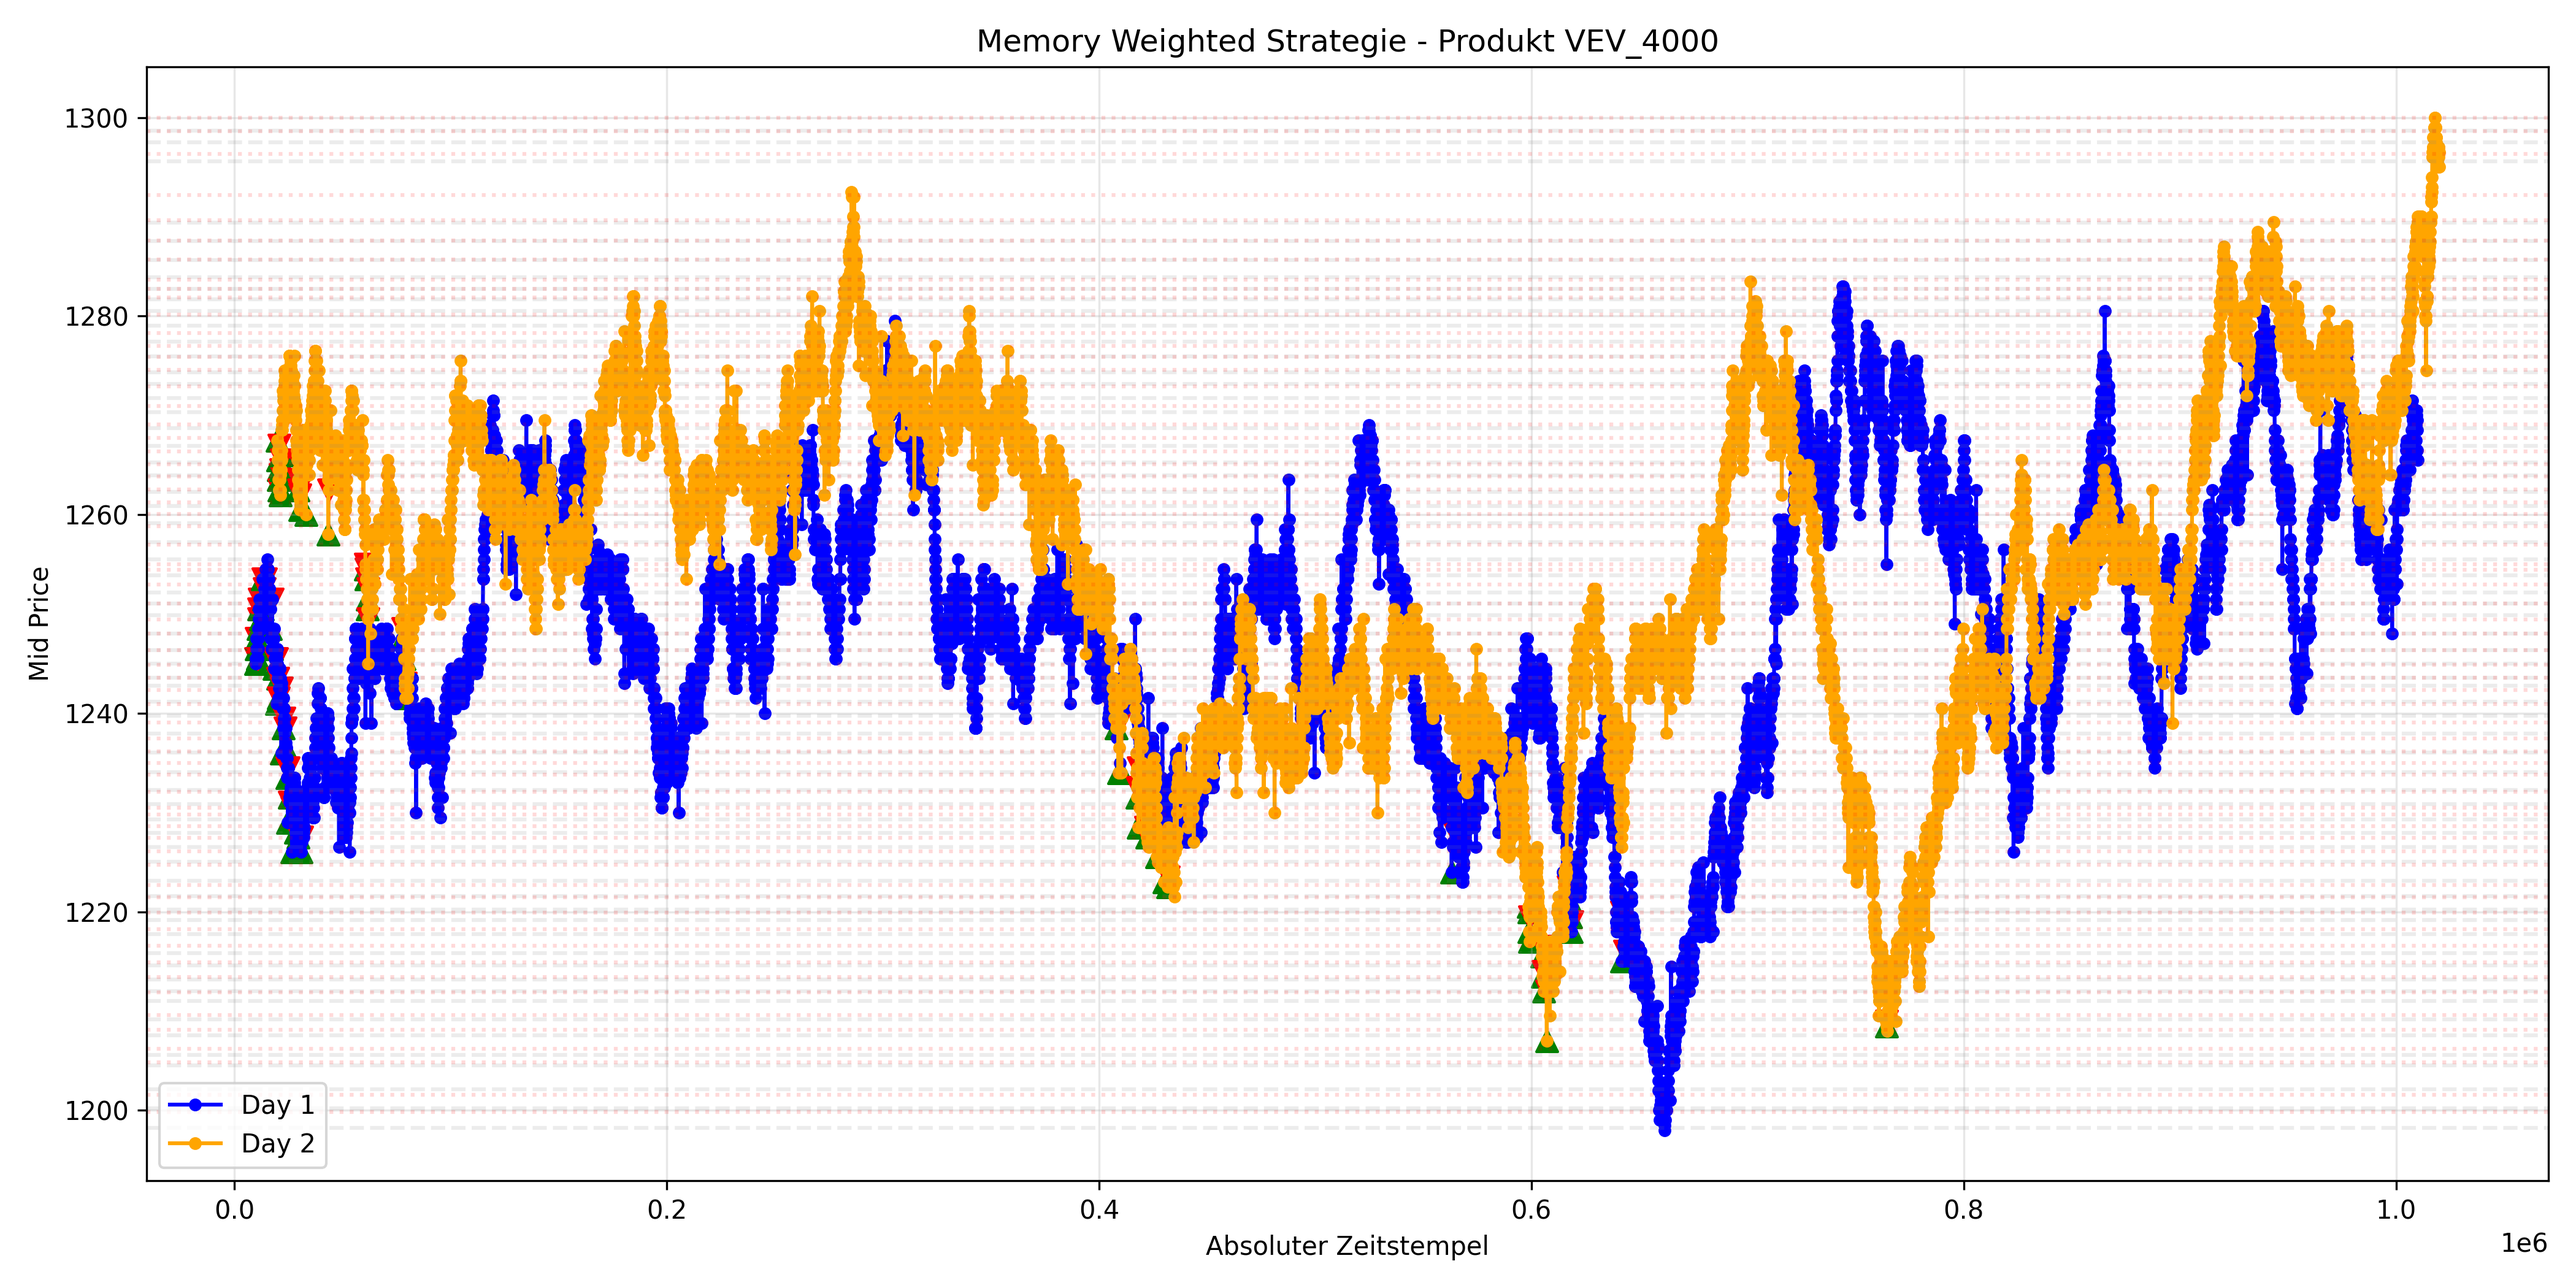
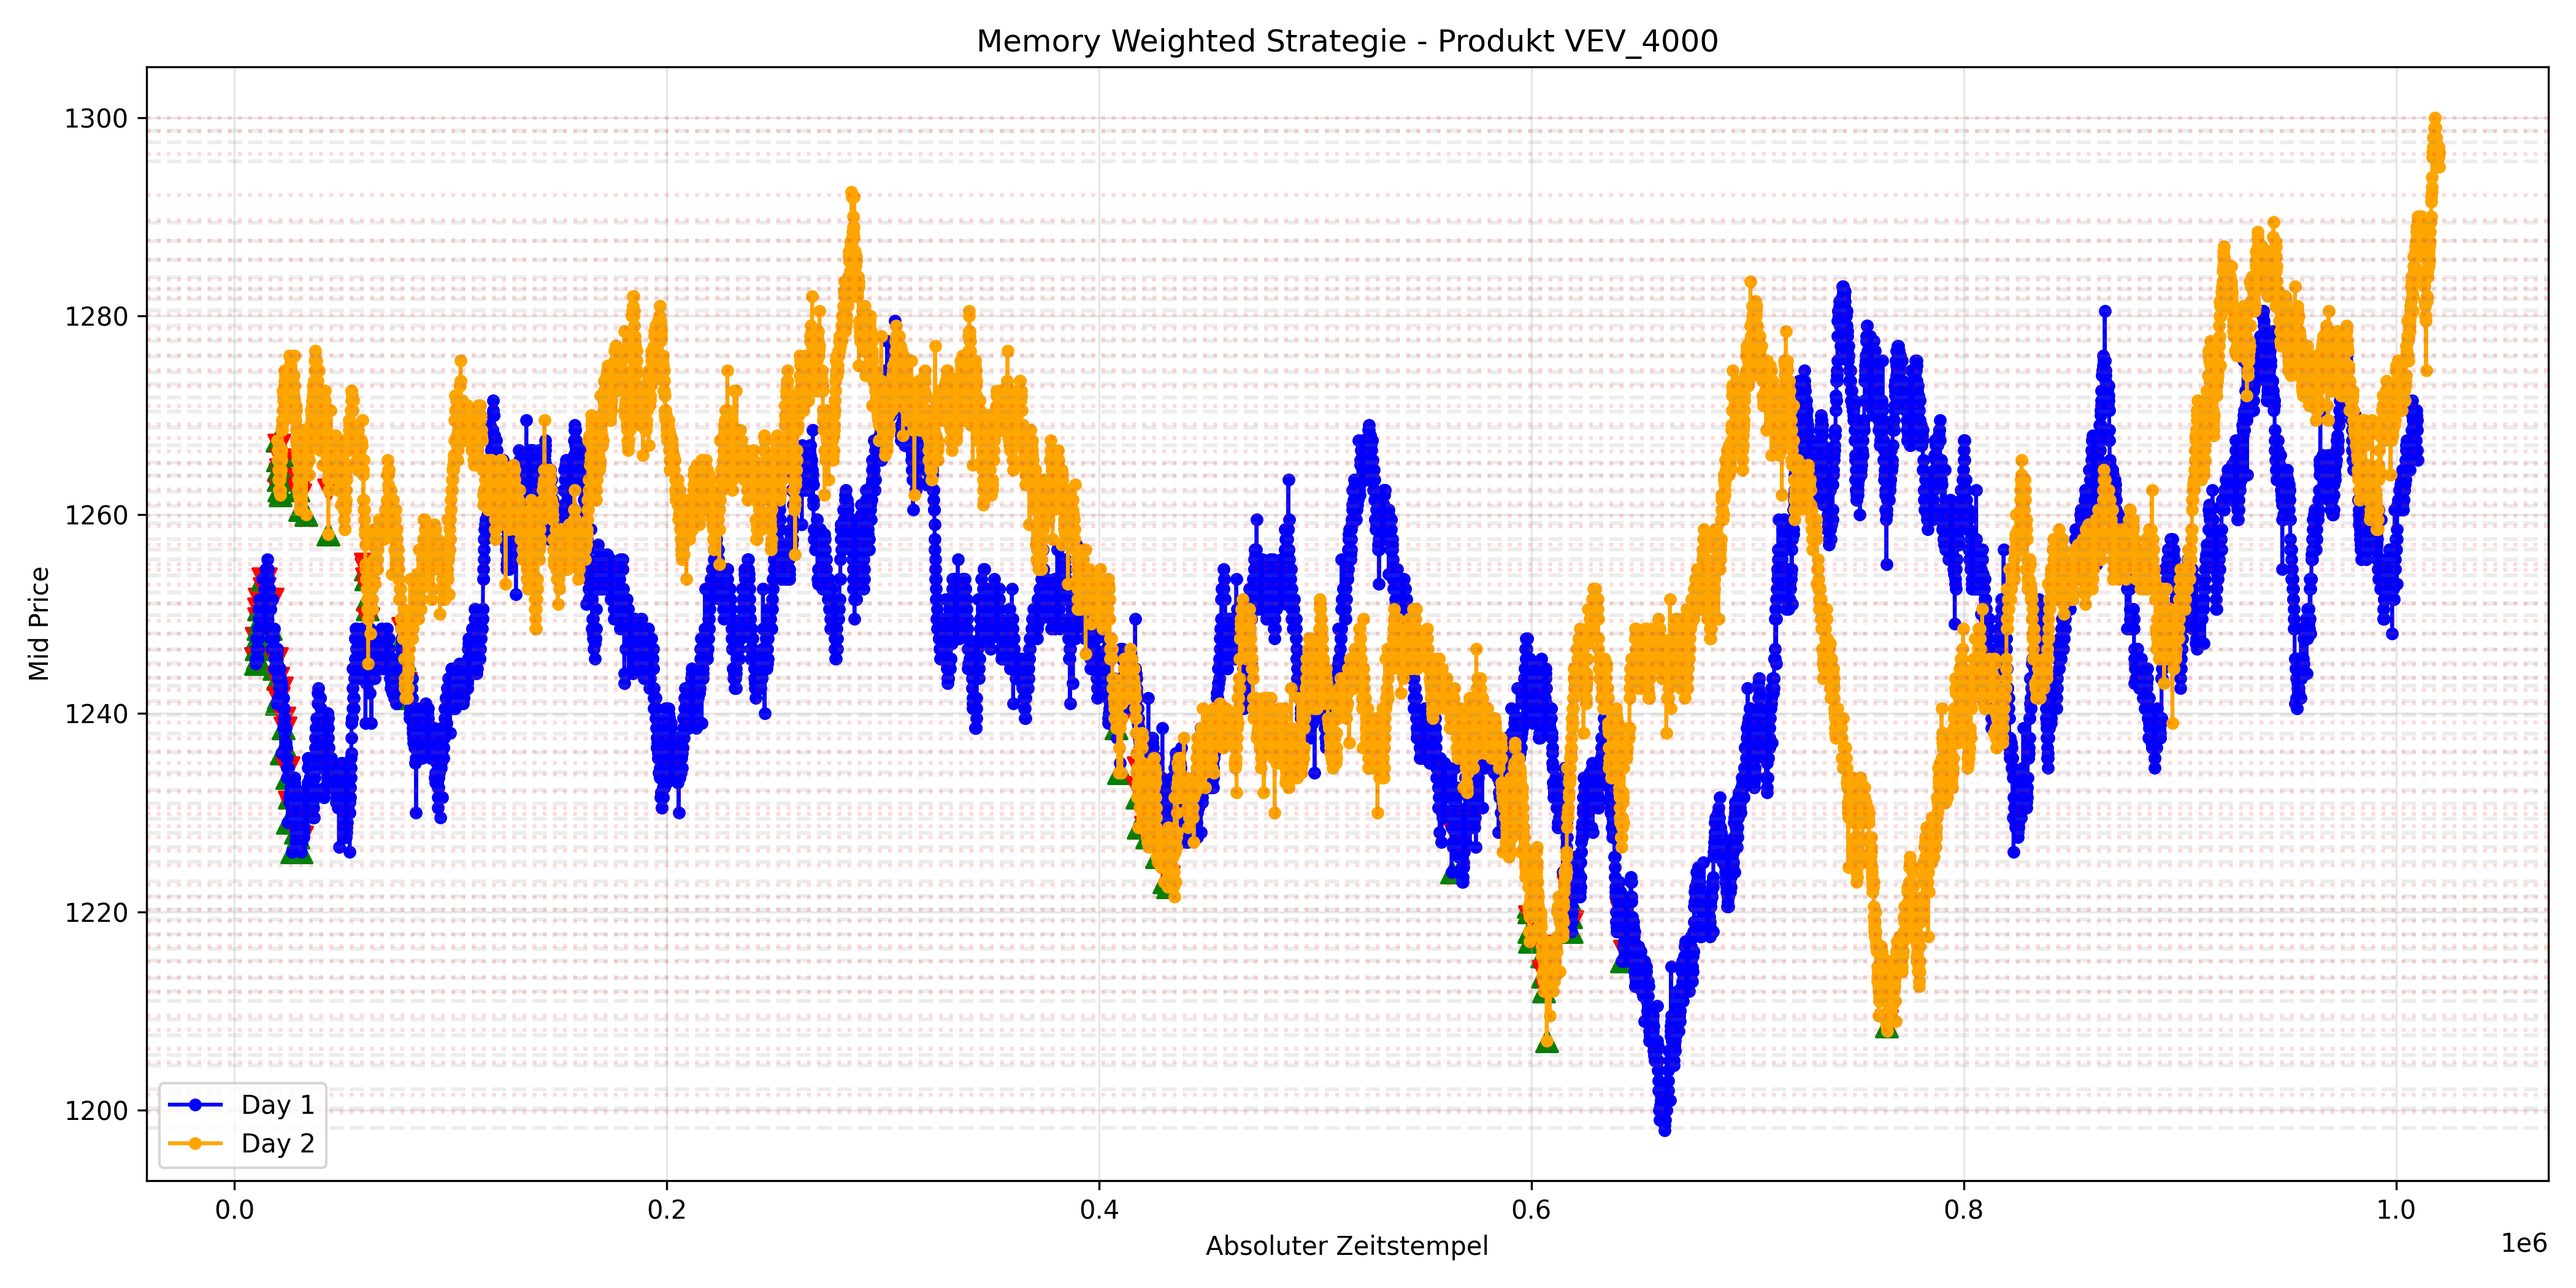
sch

diff --git a/Test Round 3 /memory_weighted_strategy.py b/Test Round 3 /memory_weighted_strategy.py
@@ -180,6 +180,10 @@ memory_levels = build_memory_from_day(price_dfs[0]['mid_price'].tolist(), day_we
 print(f"Initiale Day 0 Levels: {len(memory_levels)}")
 
 results = {}
+def get_day_weight(day):
+    # Day 0 = Basisgewicht 1, späteres Daten erhalten stärkeres Gewicht
+    return 1.0 + day * 2.0
+
 for day in [1, 2]:
     trades = simulate_day(price_dfs[day], memory_levels)
     total_pnl = sum(t['pnl'] for t in trades if t['action'] in ('SELL', 'CLOSE'))
@@ -191,12 +195,12 @@ for day in [1, 2]:
         'end_closes': sum(1 for t in trades if t['action'] == 'CLOSE'),
     }
 
-    # Update memory with this Day's levels: spätere Tage stärker gewichten
-    day_weight = 1.0 + day
+    # Update memory with this Day's levels: spätere Tage bekommen stärkeres Gewicht
+    day_weight = get_day_weight(day)
     new_levels = build_memory_from_day(price_dfs[day]['mid_price'].tolist(), day_weight=day_weight)
     for lvl in new_levels:
         merge_level(memory_levels, lvl['price'], lvl['type'], lvl['weight'], tolerance=1.0)
-    print(f"Day {day} hinzugefügte Levels: {len(new_levels)} => Memory jetzt: {len(memory_levels)}")
+    print(f"Day {day} hinzugefügte Levels: {len(new_levels)} (weight={day_weight}) => Memory jetzt: {len(memory_levels)}")
 
 # Ausgabe
 print("\n=== Strategie Ergebnis ===")
